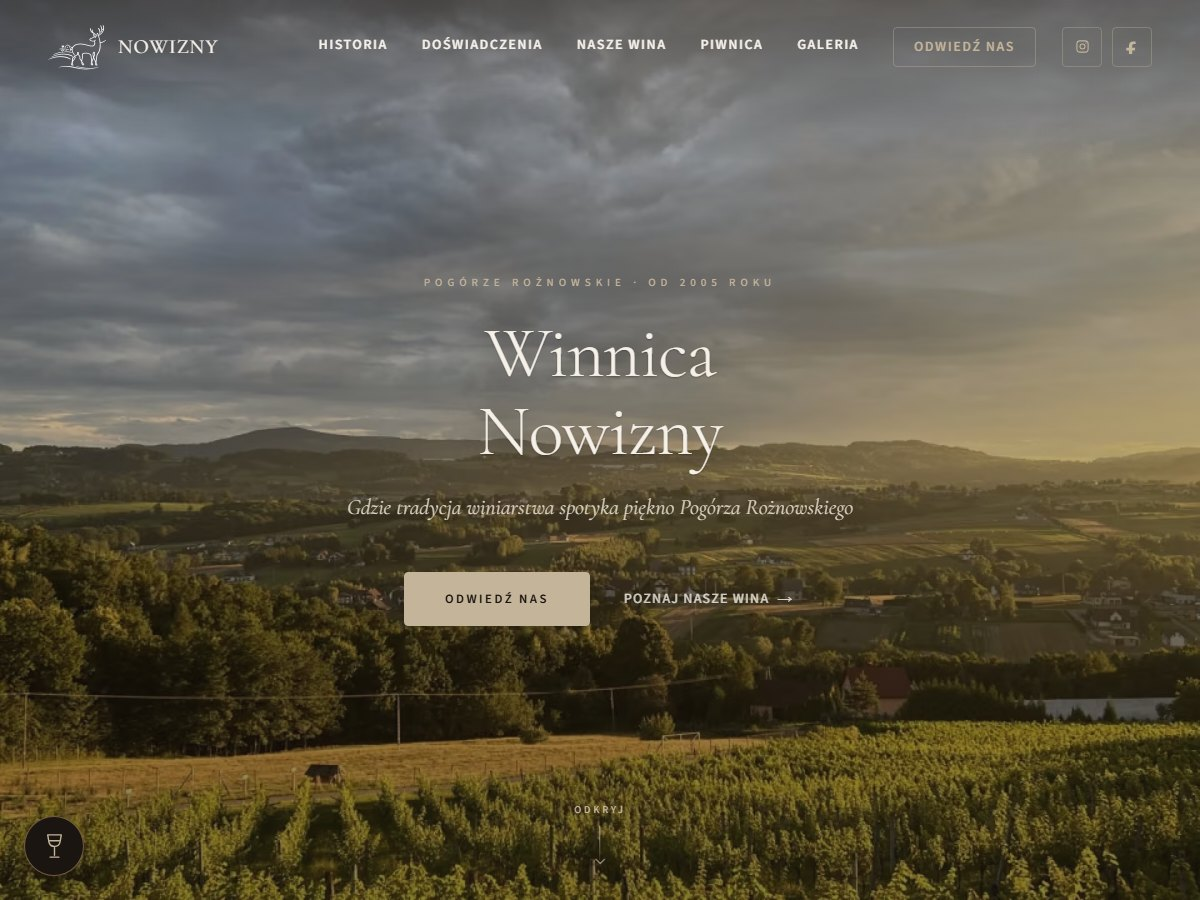
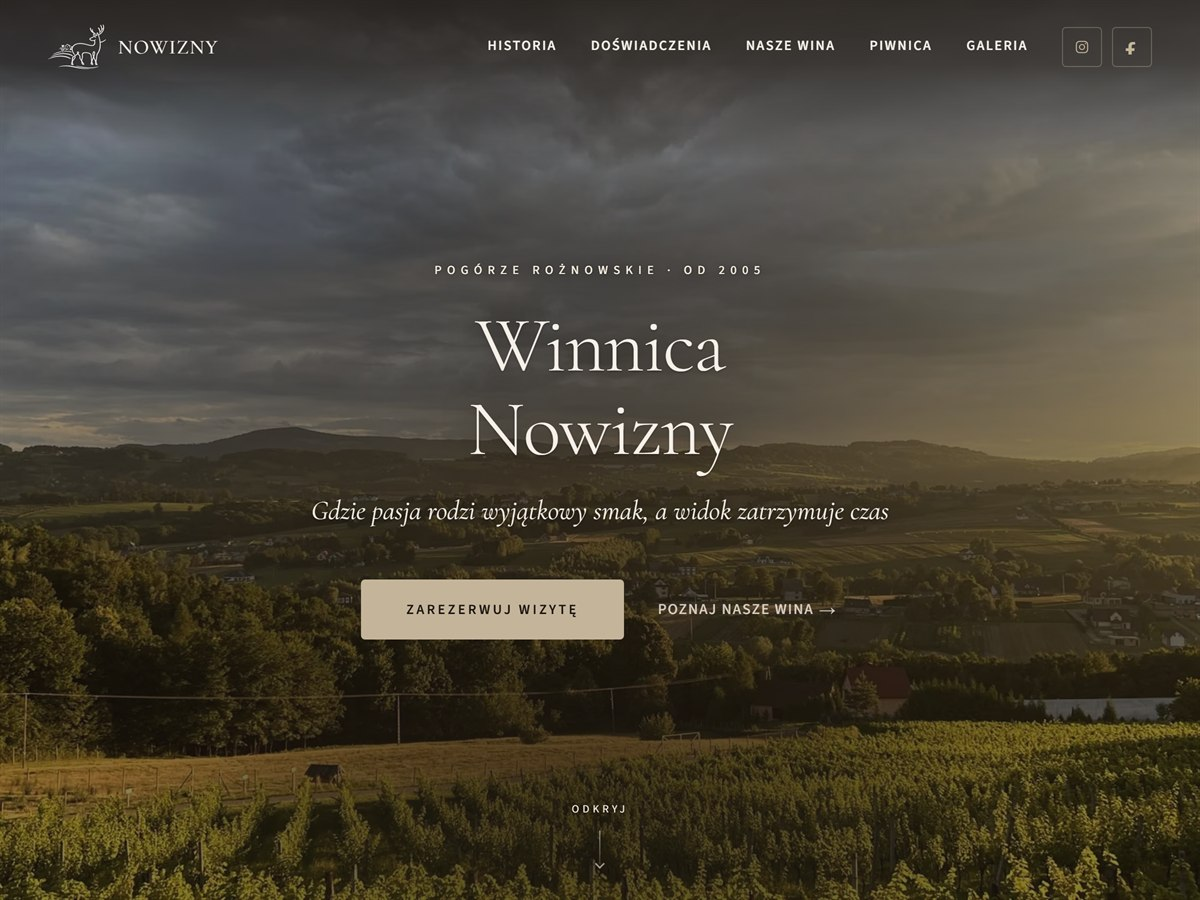
docs: document accessibility and refresh the theme screenshot
The README covered SEO, performance and security but said nothing about
accessibility, which is by now the most carefully worked part of the
theme. The new section describes keyboard handling, the dialog contract
of the gallery lightbox, how contrast is kept over the hero photograph,
how form errors are marked up, and what survives with JavaScript off.

It states the standard as a goal rather than a claim of conformance:
several items outside the hero, such as the landscape phone layout and
Windows high contrast mode, are still open.

Also documented: the sticky mobile contact bar, which was undocumented
despite being a visible feature, and the removal of ?contact=success
from the URL after a successful send.

The screenshot was stale in content, not only in contrast. It still
showed the old subtitle, an "Odwiedz nas" primary button, a navigation
CTA that no longer renders at that width, and a floating glass button
that has since been removed. Recaptured at 2x and downscaled to the
1200x900 that WordPress expects.

diff --git a/README.md b/README.md
@@ -62,7 +62,15 @@ zahashowanym adresie IP: cztery przyjęte zgłoszenia na kwadrans oraz dwadzieś
 żądań na kwadrans niezależnie od tego, czy przeszły walidację. Ten drugi jest
 po to, żeby odrzucone zgłoszenia, które też zapisują transient, nie były darmowe.
 Wiadomości zapisują się jako wpisy, a wysyłka idzie przez SMTP skonfigurowany
-zmiennymi środowiskowymi.
+zmiennymi środowiskowymi. Po udanej wysyłce skrypt usuwa `?contact=success` z
+adresu, żeby odświeżenie strony nie pokazywało potwierdzenia po raz drugi.
+
+**Pasek kontaktowy na telefonie.** Poniżej 768 px, po przewinięciu hero, z dołu
+wysuwa się pasek z telefonem i rezerwacją. Chowa się przy stopce, gdzie te same
+dane są już w treści, oraz przy otwartym menu i lightboxie, żeby nie leżeć na
+warstwie modalnej. Widocznością steruje `IntersectionObserver`, a nie zdarzenie
+przewijania. Gdy pasek jest schowany, jego linki dostają `tabindex="-1"` i
+`aria-hidden`, więc nie zbierają fokusu i nie są czytane przez czytniki ekranu.
 
 **Bez analityki i bez cookies.** Strona nie ładuje Google Analytics ani żadnego
 innego narzędzia śledzącego, więc nie ma panelu zgód. Jedyna usługa zewnętrzna to
@@ -79,7 +87,10 @@ przy zmianie motywu, menu, ustawień w Customizerze oraz przy zapisie strony,
 wina albo załącznika. Wiadomość z formularza cache'u nie rusza, bo nie zmienia
 niczego na stronie publicznej. Zdjęcia mają warianty AVIF i WebP z
 `srcset`, fonty są hostowane lokalnie, a te potrzebne do pierwszego renderu
-dostają `preload`.
+dostają `preload`. Cały JavaScript strony to jeden plik ładowany z `defer`,
+około 6 kB, a CSS około 10 kB po kompresji. Zmierzone lokalnie: LCP 1,1 s i CLS
+równe 0 na profilu desktopowym, LCP 3,2 s na profilu mobilnym z dławieniem
+sieci i procesora.
 
 **Bezpieczeństwo.** Ukryta wersja WordPressa, ogólny komunikat błędu logowania,
 limit prób logowania, wyłączony XML-RPC. Adres klienta bierze się z nagłówków
@@ -91,6 +102,40 @@ przekierowań tylko wtedy, gdy żądanie przyszło z zakresu wpisanego w
 **Monitoring.** Endpoint `/wp-json/winnica/v1/health` zwraca 200 albo 503 razem z
 lakonicznym statusem. Korzysta z niego healthcheck kontenera i workflow w
 `.github/workflows`, na razie wyłączony z harmonogramu do czasu wdrożenia.
+
+## Dostępność
+
+Celem jest WCAG 2.2 na poziomie AA.
+
+**Klawiatura.** Menu i lightbox galerii obsługują się bez myszy, a pole daty
+przyjmuje wpisanie z klawiatury, więc kalendarz nie jest do niczego potrzebny.
+Lightbox to `role="dialog"` z `aria-modal`: przy otwarciu fokus przechodzi
+na przycisk zamknięcia, tło dostaje blokadę przewijania, a Escape zamyka okno i
+oddaje fokus na kafelek, z którego przyszliśmy. Menu zachowuje się tak samo.
+Pierścień fokusu ma trzy piksele i ciemną otoczkę, dzięki czemu jest widoczny
+zarówno na jasnych sekcjach, jak i na ciemnym zdjęciu.
+
+**Kontrast na zdjęciu.** To najtrudniejszy fragment, bo tłem dla nadtytułu,
+tytułu i podtytułu jest fotografia z jasnym niebem. Overlay hero i przyciemnienie
+pod paskiem nawigacji są dobrane tak, aby najgorszy piksel pod każdym napisem
+dawał co najmniej 4,5:1 dla tekstu poniżej 24 px. Wartości sprawdzano przez
+próbkowanie pikseli zdjęcia, a nie na oko, bo automatyczne testery zgłaszają
+tekst na obrazie jako nierozstrzygnięty i przepuszczają go bez oceny.
+
+**Formularz.** Każde pole ma etykietę, a pola z błędem dostają `aria-invalid` i
+`aria-describedby` wskazujące na komunikat przy tym konkretnym polu. Podsumowanie
+po wysyłce jest w `role="alert"` albo `role="status"`, zależnie od tego, czy
+niesie błąd, czy potwierdzenie. Oczekiwany format daty jest podany tekstem dla
+czytników ekranu, bo placeholder znika po pierwszym znaku i nie jest ogłaszany.
+
+**Bez JavaScriptu.** Cała treść przychodzi z serwera. Kontrolki, które bez
+skryptu nic by nie robiły, w ogóle nie trafiają do HTML-a, a menu mobilne
+zamienia się na zwykłą listę linków. Nie ma więc martwych przycisków.
+
+**Reszta.** Ruch respektuje `prefers-reduced-motion`. Wszystkie obrazy mają
+`alt`, osadzona mapa ma `title`. Cele dotykowe spełniają wymagane 24 × 24 px,
+a przyciski główne i pasek mobilny mają 44 px. Układ nie wymaga przewijania w
+poziomie od 320 px wzwyż.
 
 ## Struktura
 
